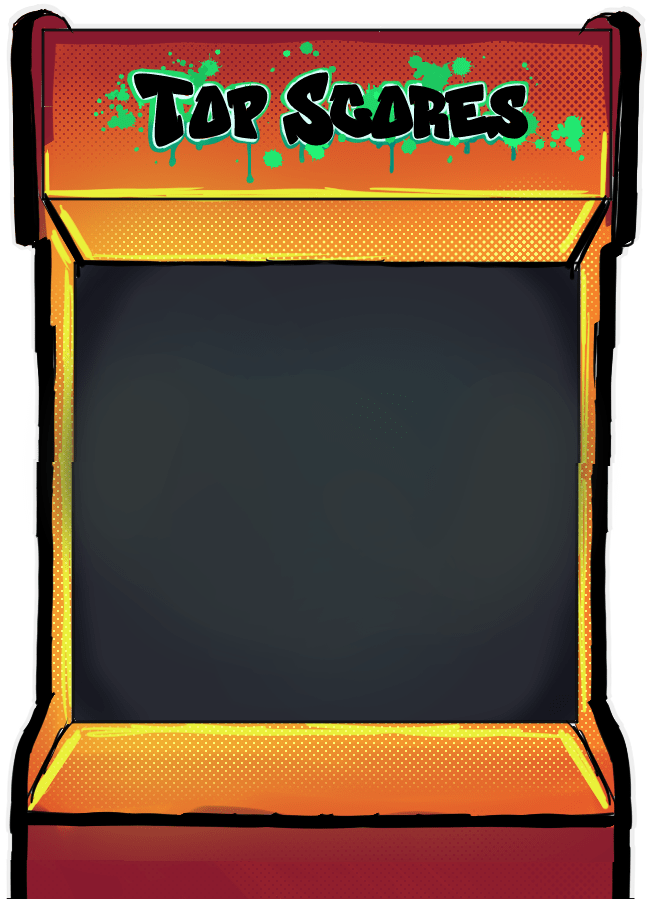
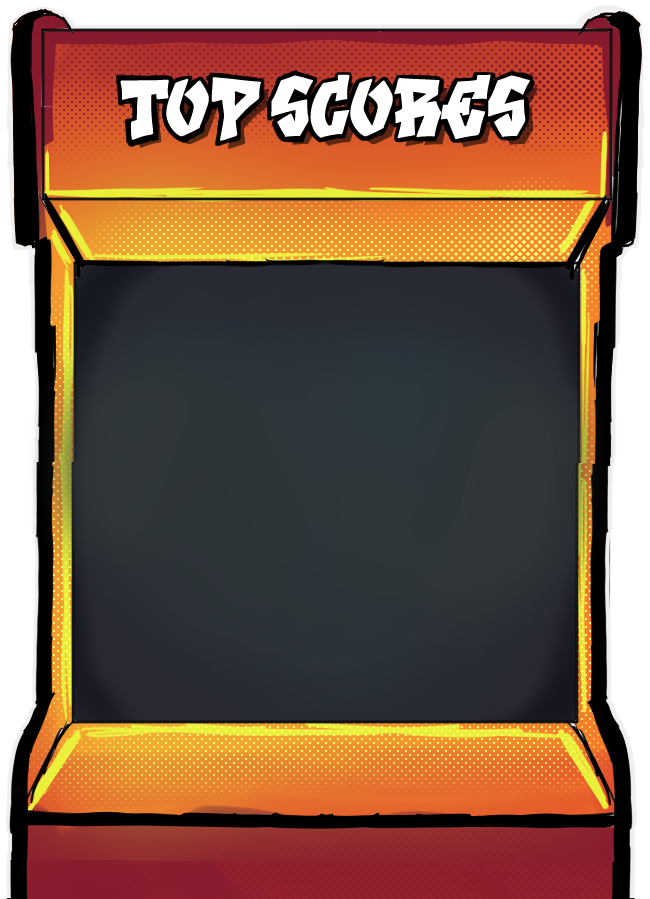
Made the image more responsive

Changed region(s): [[0.1538, 0.0311, 0.8923, 0.218]]

diff --git a/src/components/home/preview-leaderboard.tsx b/src/components/home/preview-leaderboard.tsx
@@ -21,10 +21,9 @@ const getPlacementColor = (index: number): string => {
 const PreviewLeaderboard = ({ data }: { data: any }) => {
   return (
     <>
-      <img
-        src="images/arcade-machine.png"
-        className="top-0 z-0 w-full lg:w-3/5 md:h-225"
-      ></img>
+    <div className="top-0 z-0 w-full h-[80vh] lg:w-3/5 md:h-225 bg-[url('images/arcade-machine-2.png')] 
+    xl:bg-[url('images/arcade-machine-wide.png')] bg-no-repeat bg-size-[100%_100%]">
+    </div>
       <table
         id="scoreboard"
         className="absolute top-[27%] 
